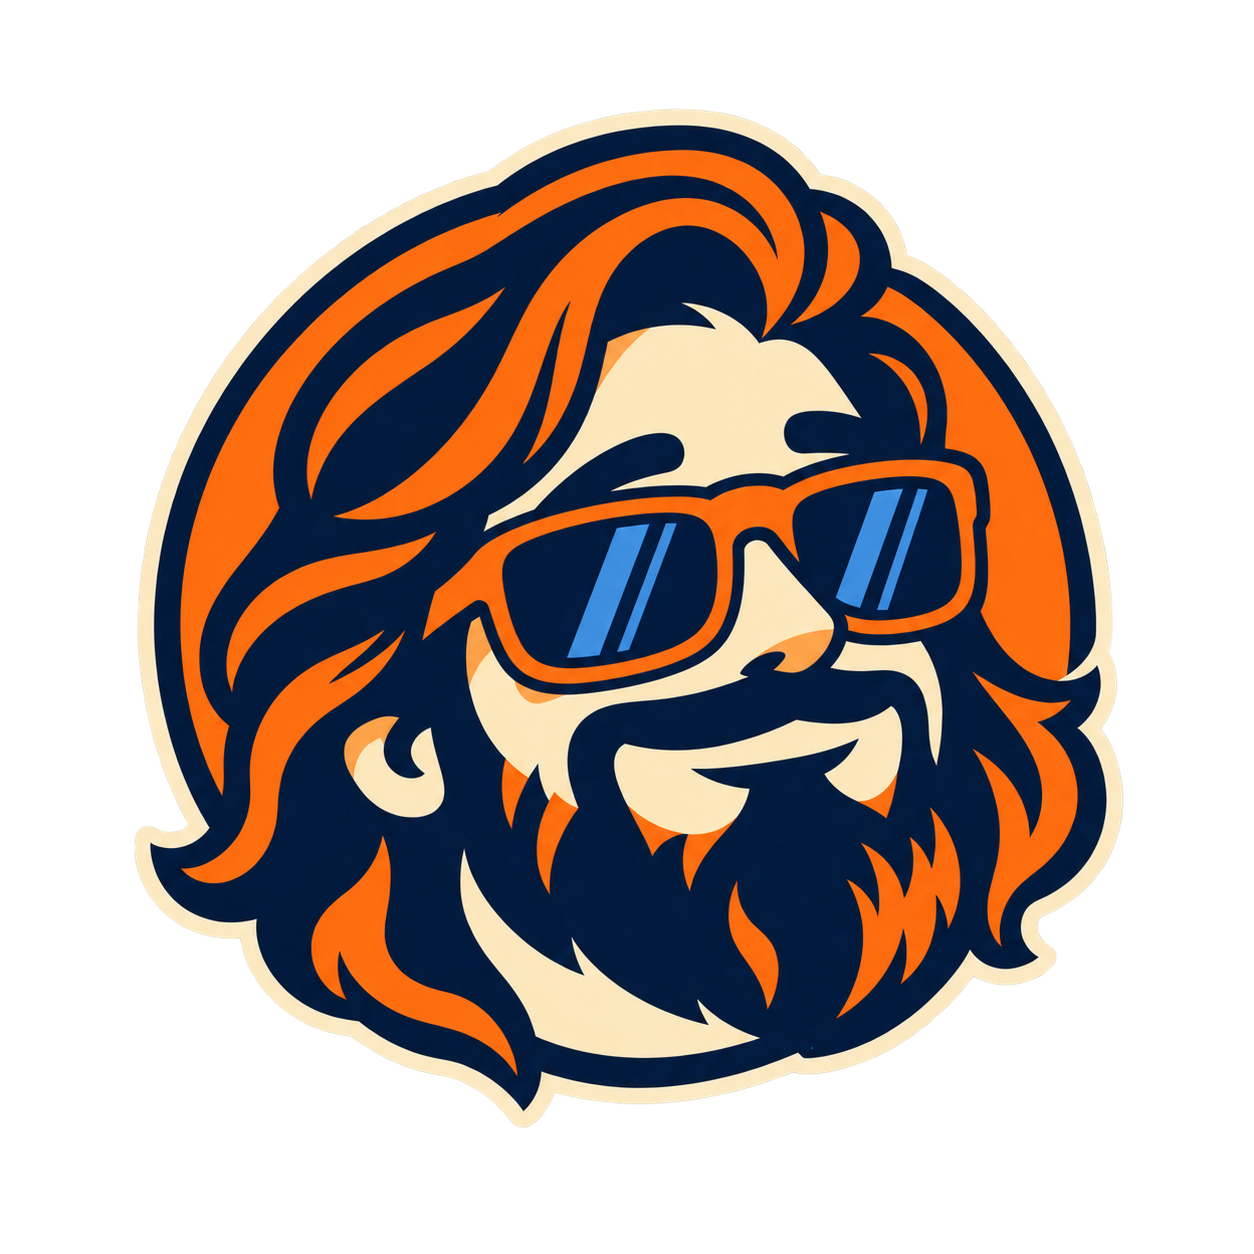
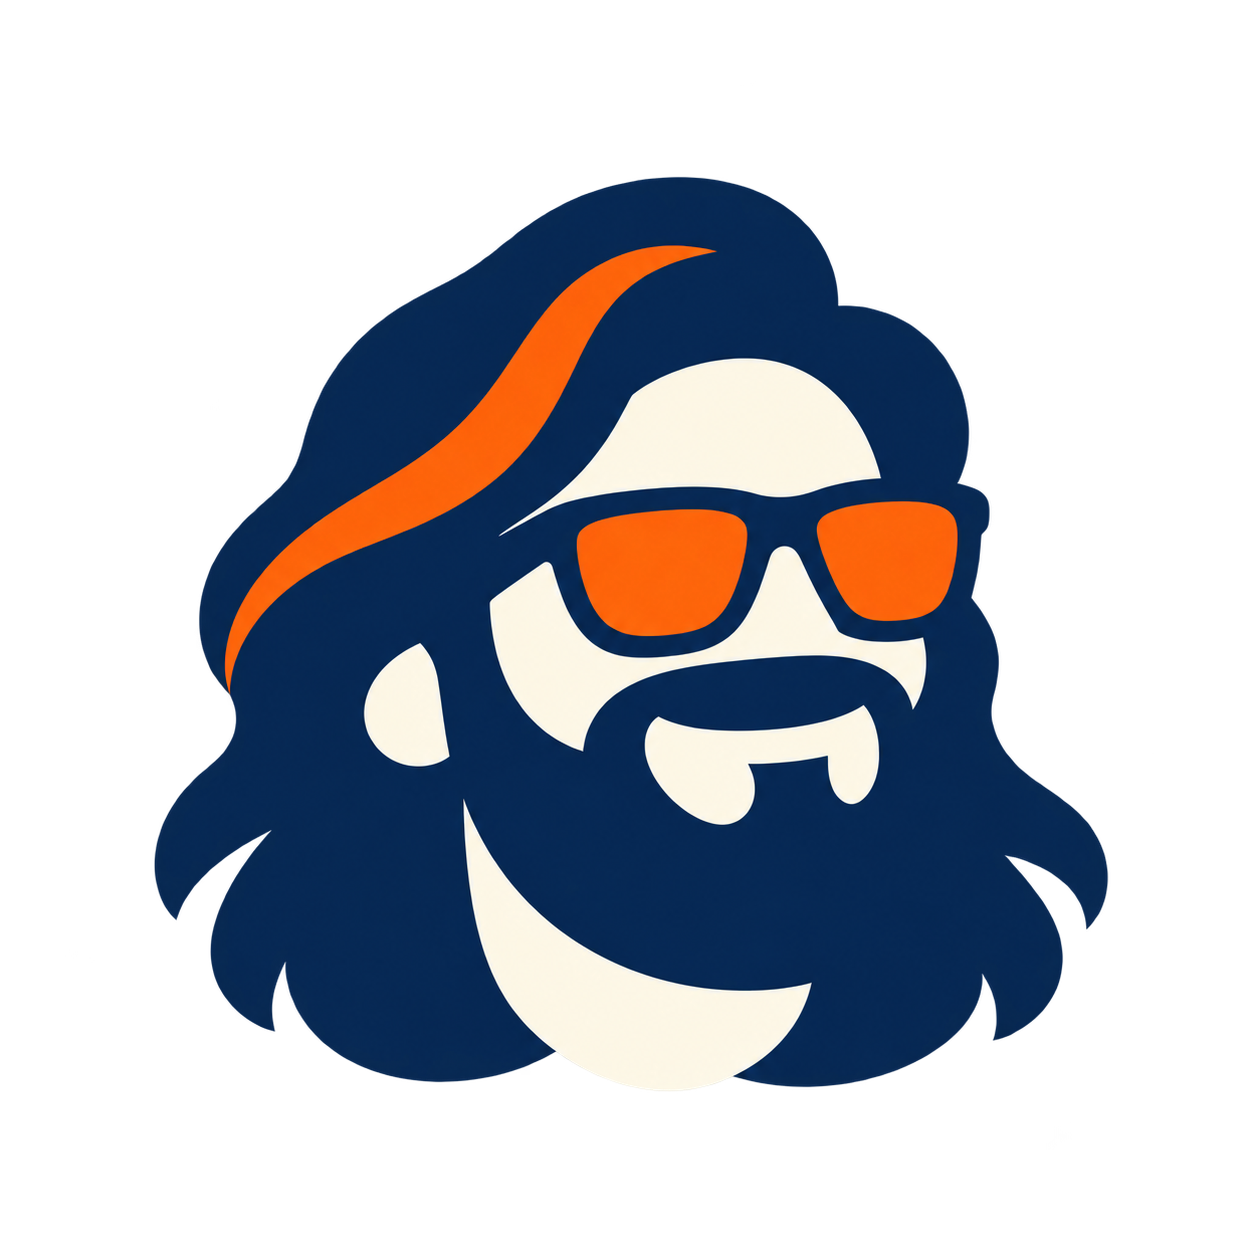
dude's face, flat and a vector
The flat navy, cream and orange head replaces the illustrated one, traced
into an SVG (docs/design/mascot: potrace, one layer per colour): the tab
icon, the sidebar and the key prompt draw it at any size from one small
file. On a dark theme — and a dark browser, for the tab — it wears a
cream outline, where his navy hair would vanish on near-black. App icons
(iOS, the manifest's, maskable) sit on a cream plate; notifications get
the outlined one. The PNGs are rendered from the SVGs.

diff --git a/apps/web/src/App.tsx b/apps/web/src/App.tsx
@@ -31,6 +31,7 @@ import { ProjectSettingsScreen } from "./screens/ProjectSettingsScreen.tsx";
 import { RunScreen } from "./screens/RunScreen.tsx";
 import { existingTask, TaskDialog, type ExistingTask } from "./screens/TaskDialog.tsx";
 import { TaskScreen } from "./screens/TaskScreen.tsx";
+import { DudeMark } from "./DudeMark.tsx";
 
 export interface AppProps {
   client: ApiClient;
@@ -350,7 +351,7 @@ export function App({ client, onSignOut, onKeyRefused }: AppProps) {
         onSelect={(ref) => go(inTree(ref))}
         onShowAllAttention={() => go({ view: "inbox" })}
         menuItems={menuItems}
-        title={<span className="brand"><img src="/favicon-64.png" alt="" width={24} height={24} />dude</span>}
+        title={<span className="brand"><DudeMark size={24} />dude</span>}
         footer={
           <div className="sidebarFooter">
             <Button size="sm" variant="ghost" leadingIcon="plus" onClick={() => setOpen({ kind: "newProject" })} data-testid="new-project">

diff --git a/apps/web/index.html b/apps/web/index.html
@@ -5,12 +5,12 @@
     <meta name="viewport" content="width=device-width, initial-scale=1.0" />
     <meta name="color-scheme" content="dark light" />
     <title>dude</title>
-    <!-- dude himself: the browser scales the 32 for a 16px tab rather than keeping a drawing made for 16. -->
-    <link rel="icon" href="/favicon.ico" sizes="32x32 48x48" />
-    <link rel="icon" type="image/png" href="/favicon-64.png" sizes="64x64" />
+    <!-- dude himself, a vector: outlined in cream when the browser is dark. -->
+    <link rel="icon" type="image/svg+xml" href="/favicon.svg" />
+    <link rel="icon" type="image/png" href="/favicon-32.png" sizes="32x32" />
     <link rel="apple-touch-icon" href="/apple-touch-180.png" />
     <link rel="manifest" href="/manifest.webmanifest" />
-    <meta name="theme-color" content="#16203c" />
+    <meta name="theme-color" content="#062753" />
   </head>
   <body>
     <div id="root"></div>

diff --git a/apps/web/src/DudeMark.tsx b/apps/web/src/DudeMark.tsx
@@ -1,0 +1,14 @@
+/**
+ * dude himself: as drawn on a light theme, outlined in cream on a dark one,
+ * where his navy hair would vanish. Both are in the page and CSS shows the
+ * one the theme wants (app.css), so a theme switch needs no re-render.
+ */
+
+export function DudeMark({ size, className }: { size: number; className?: string }) {
+  return (
+    <span className={["dudeMark", className].filter(Boolean).join(" ")} style={{ width: size, height: size }} aria-hidden="true">
+      <img className="dudeMarkLight" src="/dude.svg" alt="" width={size} height={size} />
+      <img className="dudeMarkDark" src="/dude-outlined.svg" alt="" width={size} height={size} />
+    </span>
+  );
+}

diff --git a/apps/web/src/main.tsx b/apps/web/src/main.tsx
@@ -20,6 +20,7 @@ import "./app.css";
 import { ApiClient } from "./api/client.ts";
 import { App } from "./App.tsx";
 import { turnPushOff } from "./push.ts";
+import { DudeMark } from "./DudeMark.tsx";
 
 const KEY_STORAGE = "dude.apiKey";
 
@@ -76,7 +77,7 @@ function KeyPrompt({ refused, onSubmit }: { refused: boolean; onSubmit: (key: st
   return (
     <div className="keyPrompt">
       <Card variant="flat">
-        <img className="keyPromptMark" src="/dude.png" alt="" width={160} height={160} />
+        <DudeMark size={160} className="keyPromptMark" />
         <CardHeader title={<h1>dude</h1>} />
         <CardBody>
           <form

diff --git a/apps/web/src/app.css b/apps/web/src/app.css
@@ -195,6 +195,20 @@ body {
   align-items: center;
   gap: var(--ds-space-8);
 }
+.dudeMark {
+  display: inline-block;
+  flex-shrink: 0;
+}
+.dudeMark img {
+  display: block;
+}
+.dudeMarkDark,
+[data-theme="dark"] .dudeMarkLight {
+  display: none;
+}
+[data-theme="dark"] .dudeMarkDark {
+  display: block;
+}
 .keyPromptMark {
   display: block;
   margin: var(--ds-space-24) auto var(--ds-space-8);

diff --git a/docs/design/mascot/trace.py b/docs/design/mascot/trace.py
@@ -1,0 +1,37 @@
+# Trace the flat mark into an SVG with potrace: one layer per colour, each
+# from a clean two-tone mask, painted navy (the whole silhouette), then
+# cream, then orange.
+import numpy as np, potrace
+from PIL import Image, ImageFilter
+SRC = "/home/marcio/git/dude/docs/design/icon/mascot3/source.png"
+im = Image.open(SRC).convert("RGBA")
+x0, y0, x1, y1 = im.getchannel("A").point(lambda a: 255 if a > 200 else 0).filter(ImageFilter.MinFilter(5)).getbbox()
+pad = 8
+im = im.crop((x0 - pad, y0 - pad, x1 + pad, y1 + pad))
+W, H = im.size
+a = np.asarray(im).astype(int)
+pal = {"navy": (6, 39, 83), "cream": (251, 245, 230), "orange": (255, 107, 26)}
+names = list(pal)
+d = np.stack([((a[..., :3] - np.array(c)) ** 2).sum(-1) for c in pal.values()], -1)
+label = d.argmin(-1); label[a[..., 3] < 128] = -1
+def layer(keep):
+    m = np.isin(label, [names.index(k) for k in keep])
+    m = np.asarray(Image.fromarray((m * 255).astype("uint8")).filter(ImageFilter.MedianFilter(5))) > 127
+    # This potrace traces False as the shape.
+    plist = potrace.Bitmap(~m).trace(turdsize=20, alphamax=1.0, opticurve=True, opttolerance=0.2)
+    parts = []
+    for curve in plist:
+        s = curve.start_point; seg = [f"M{s.x:.1f},{s.y:.1f}"]
+        for c in curve.segments:
+            if c.is_corner: seg.append(f"L{c.c.x:.1f},{c.c.y:.1f}L{c.end_point.x:.1f},{c.end_point.y:.1f}")
+            else: seg.append(f"C{c.c1.x:.1f},{c.c1.y:.1f} {c.c2.x:.1f},{c.c2.y:.1f} {c.end_point.x:.1f},{c.end_point.y:.1f}")
+        parts.append("".join(seg) + "Z")
+    return "".join(parts)
+layers = {"navy": layer(["navy", "cream", "orange"]), "cream": layer(["cream"]), "orange": layer(["orange"])}
+fill = {"navy": "#062753", "cream": "#fbf5e6", "orange": "#ff6b1a"}
+body = "".join(f'<path fill="{fill[k]}" fill-rule="evenodd" d="{v}"/>' for k, v in layers.items())
+# Square viewBox, centred: it drops into any icon slot.
+S = max(W, H); ox, oy = (S - W) / 2, (S - H) / 2
+svg = f'<svg xmlns="http://www.w3.org/2000/svg" viewBox="{-ox:.0f} {-oy:.0f} {S} {S}">{body}</svg>\n'
+open("dude.svg", "w").write(svg)
+print(W, H, S, len(svg), {k: v.count("M") for k, v in layers.items()})

diff --git a/docs/design/mascot/README.md b/docs/design/mascot/README.md
@@ -1,17 +1,22 @@
 # dude's mascot
 
-`dude.png` is the source: 1254×1254, transparent, generated with ChatGPT
-(26 Sep 2026). The app's icons are cut from it (`apps/web/public`):
+`dude.png` is the source: 1254×1254, transparent, flat navy `#062753`,
+cream `#fbf5e6` and orange `#ff6b1a`, generated with ChatGPT (26 Sep 2026).
 
-| File | Size | Where |
-|---|---|---|
-| `favicon.ico`, `favicon-32.png` | 32, 48 | browser tab — scaled down by the browser; nothing is drawn for 16 |
-| `favicon-64.png` | 64 | high-DPI tabs; the sidebar's logo |
-| `apple-touch-180.png` | 180 | iOS home screen (on a navy plate; iOS rounds it) |
-| `app-192.png`, `app-512.png` | 192, 512 | web app manifest (Android, installs) |
-| `maskable-512.png` | 512 | manifest, maskable: extra margin for Android's circle |
-| `icon-192.png` | 192 | browser notifications |
-| `dude.png` | 512 | the key prompt |
+`dude.svg` is it traced (`trace.py`: potrace, one layer per colour), and the
+mark everything is made from. `dude-outlined.svg` adds a cream outline, for
+dark backgrounds, where his navy hair would vanish.
 
-The navy plate is `#16203c`, the manifest's theme colour. A raster: for
-print or anything larger than about 1000px it needs vectorising first.
+In the app (`apps/web/public`):
+
+| File | Where |
+|---|---|
+| `favicon.svg` | the browser tab; outlined when the browser is dark (a `prefers-color-scheme` rule inside the SVG) |
+| `favicon-32.png` | the tab, for browsers without SVG favicons |
+| `dude.svg`, `dude-outlined.svg` | the sidebar and the key prompt (`DudeMark`), by the app's theme |
+| `apple-touch-180.png` | iOS home screen, on a cream plate (iOS rounds it) |
+| `app-192.png`, `app-512.png`, `maskable-512.png` | the web app manifest (Android, installs); maskable has margin for Android's circle |
+| `icon-192.png` | browser notifications (outlined: the notification's background is unknown) |
+
+The PNGs are rendered from the SVGs. Nothing is drawn for 16px: a tab at 16
+scales the SVG, or the 32.
